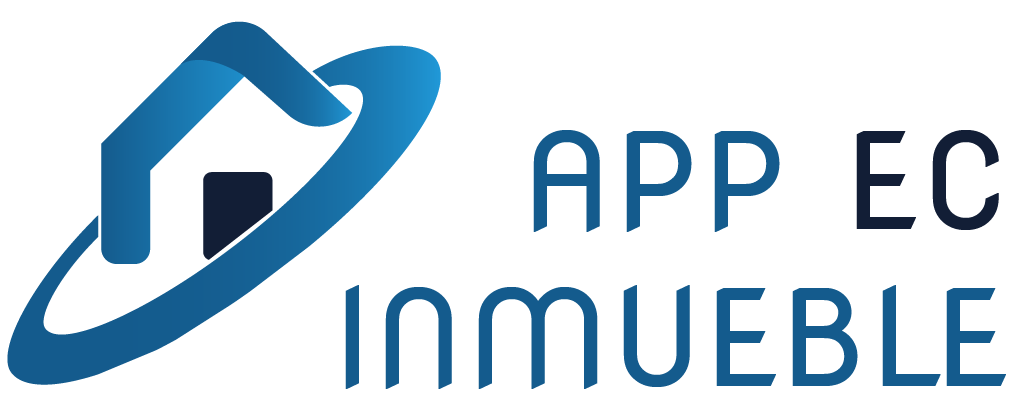
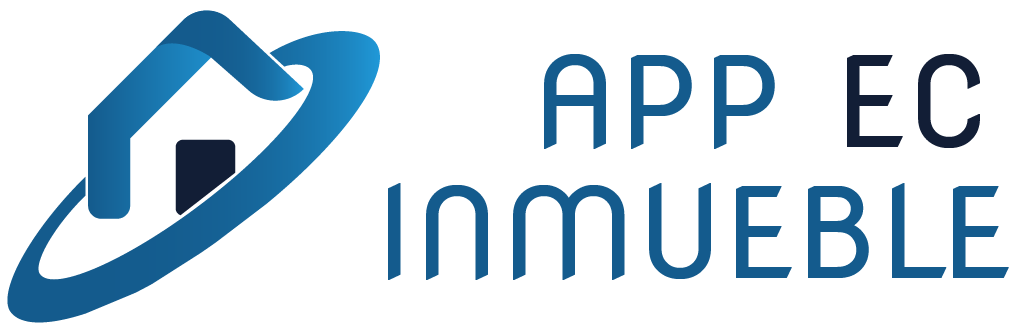
improve header toolbar css and routin page static

diff --git a/src/styles.scss b/src/styles.scss
@@ -2,58 +2,108 @@
 @import "@angular/material/prebuilt-themes/deeppurple-amber.css";
 
 $primary: #145b8d;
+
 $primary-ligh-1: #20d6d8;
 $primary-ligh-2: #2099d8;
+
 $primary-dark-1: #121e36;
 $primary-dark-2: #120907;
 
-$error: #c5084d;
+$text-primary: #a6b1be;
+$text-dark: #232e40;
 
-:root {
-  --color-1: #20d6d8;
-  --color-2: #2099d8;
-  --color-3: #145b8d;
-  --color-4: #121e36;
-  --color-5: #120907;
-  --color-6: #f5f5f9;
-  --font-size-1: 1rem;
-  --font-size-2: 1.2rem;
-  --font-size-3: 1.8rem;
-  --shadow-1: rgba(0, 0, 0, 0.35) 0px 8px 24px;
-  --shadow-2: rgba(100, 104, 111, 0.2) 0px 7px 29px 0px;
-  --border-radius-1: .25rem;
-  --border-radius-2: .5rem;
-  --font-family-1: 'Ubuntu', sans-serif;
-  --animation-1: 200ms;
-  --bs-body-color: #a6b1be;
-  --bs-body-bg: #f5f5f9;
-  /*
-  .color1 {color: #111e35;}
-  .color2 {color: #244a8a;}
-  .color3 {color: #04f287;}
-  .color4 {color: #5aff80;}
-  .color5 {color: #f4ff91;}
-  */
-}
+$background-white: #FFFFFF;
+$background-1: #fdfdfd;
+$background-2: #f5f5f9;
+$background-btn-default: #fafafa;
+$background-btn-hover-1: #f5f5f9;
+$background-btn-hover-2: #a6b1be;
+
+$error: #c5084d;
+$error-ligh: #f2ccda;
+
+$success: #07c39a;
+$success-ligh: #cdf9ef;
+
+$shadow-1: rgba(0, 0, 0, 0.35) 0px 8px 24px;
+$shadow-2: rgba(100, 104, 111, 0.2) 0px 7px 29px 0px;
+
+$separator-line: #f5f5f9;
+
+$frame-space-400: 400px;
+$frame-space-350: 350px;
+$frame-space-300: 300px;
+$frame-space-250: 250px;
+$frame-space-200: 200px;
+$frame-space-100: 100px;
+$frame-space-050: 50px;
+$frame-space-025: 25px;
+
+$transition-02s: 0.2s;
+$opacity-05: .5;
+$default-0: 0px;
+
+$space-25: 25px;
+$space-20: 20px;
+$space-15: 15px;
+$space-12: 12px;
+$space-10: 10px;
+$space-08: 8px;
+$space-05: 5px;
+
+$percentage-100: 100%;
+$percentage-075: 75%;
+$percentage-050: 50%;
+$percentage-030: 30%;
+$percentage-025: 25%;
+$percentage-010: 10%;
+$percentage-005: 5%;
+
+$font-size-22: 22px;
+$font-size-20: 20px;
+$font-size-18: 18px;
+$font-size-16: 16px;
+$font-size-14: 14px;
+$font-size-12: 12px;
+$font-size-10: 10px;
+$font-size-08: 8px;
+
+$font-family-ubuntu: 'Ubuntu', sans-serif;
+
+$animation-2s: 200ms;
+
+$color01: #0e325b;
+$color02: #ca7c14;
+$color03: #f5b017;
+$color04: #3090ac;
+$color05: #f2f2f2;
+$color06: #A6232E40;
+$color07: #66232E40;
+$color08: #c9c6cc;
+$color09: #232e40;
+$color10: #3072b8;
+$color12: #d1e8eb;
+$color13: #03DAC5;
+$color14: #F4F7F7;
+$color15: #fafafa;
 
 html,
 body {
-  margin: 0;
-  padding: 0;
-  background-color: var(--color-6);
-  font-family: var(--font-family-1);
-  font-size: var(--font-size-1);
-  color: var(--color-4);
+  margin: $default-0;
+  padding: default-0;
+  background-color: $background-2;
+  font-family: $font-family-ubuntu;
+
 }
 
 input,
 button {
   cursor: pointer;
-  font-family: var(--font-family-1);
+  font-family: $font-size-14;
 }
 
 button:disabled {
-  opacity: .5;
+  opacity: $opacity-05;
 }
 
 *,

diff --git a/src/app/modules/components/menu-list/menu-list.component.scss b/src/app/modules/components/menu-list/menu-list.component.scss
@@ -1,52 +1,52 @@
 @import '../../../../styles.scss';
 
 .nav-menu {
-  padding: 0;
-  margin: 0;
+  padding: $default-0;
+  margin: $default-0;
 
   &__img {
-    width: 100%;
-    padding: 0 35px;
+    width: $percentage-100;
+    padding: 0 $space-15;
 
     & .image {
-      width: 100%;
+      width: $percentage-100;
     }
   }
 
   &__separator {
     margin: 1rem 0;
-    border-bottom: solid 1px #f5f5f9;
+    border-bottom: solid 1px $separator-line;
   }
 
   &__list {
-    width: 100%;
-    padding: 0;
-    margin: 0;
+    width: $percentage-100;
+    padding: $default-0;
+    margin: $default-0;
 
     & li {
       list-style: none;
-      background-color: #fafafa;
-      color: #a6b1be;
-      border-radius: 8px;
+      background-color: $background-btn-default;
+      color: $text-primary;
+      border-radius: $space-08;
       text-decoration: none;
-      margin-bottom: 8px;
+      margin-bottom: $space-08;
     }
 
     & .item__sign-put {
-      background-color: #c5084d40;
-      color: #a6b1be;
+      background-color: $error-ligh;
+      color: $text-primary;
     }
     & .item__sign-put:hover, .item__sign-put:active {
-      background-color: #c5084d;
-      color: #f5f5f9;
+      background-color: $error;
+      color: $background-2;
     }
 
     & li:hover, li:active {
       cursor: pointer;
-      background-color: #f5f5f9;
+      background-color: $background-btn-hover-1;
       color: $primary;
-      font-size: 17px;
-      transition: 0.2s;
+      font-size: $font-size-18;
+      transition: $transition-02s;
     }
     &::-webkit-scrollbar{
       display: none;
@@ -59,11 +59,11 @@
   align-items: center;
   justify-content: left;
   align-content: center;
-  margin-left: 15px;
-  padding: 5px;
+  margin-left: $space-15;
+  padding: $space-05;
 }
 
 .navigation-list-label {
   display: inline-block;
-  padding-left: 8px;
+  padding-left: $space-08;
 }

diff --git a/src/app/modules/components/header/header.component.scss b/src/app/modules/components/header/header.component.scss
@@ -1,17 +1,49 @@
+@import '../../../../styles.scss';
+
+.toolbar-background {
+  background: $primary;
+  background: -webkit-linear-gradient(to right, $primary, $primary-dark-1);
+  background: linear-gradient(to right, $primary, $primary-dark-1);
+
+  & button {
+    color: $background-btn-default;
+  }
+  &__img {
+    width: $frame-space-200;
+    padding: 0 $space-15;
+
+    & .image {
+      width: $percentage-100;
+    }
+  }
+}
+
 .side-bar {
   list-style: none;
-  padding: 0;
-  margin: 0;
+  padding: $default-0;
+  margin: $default-0;
+  width: $percentage-050;
+
+  & li {
+    font-size: $font-size-20;
+    text-decoration: none;
+    color: $background-2;
+    width: $percentage-030;
+    border-radius: $space-08;
+    text-align: center;
+  }
+
+  & li:hover, li:active {
+    cursor: pointer;
+    font-size: $font-size-18;
+    color: $primary;
+    background-color: $background-btn-hover-1;
+    transition: $transition-02s;
+  }
 }
 
-.side-bar li {
-  text-decoration: none;
-  color: #f5f5f9;
+.list-label {
+  margin-left: $space-08;
 }
 
-.side-bar li:hover, .side-bar li:active {
-  font-size: 1.4rem;
-  cursor: pointer;
-  color: #a6b1be;
-  transition: 0.5s;
-}
+

diff --git a/src/app/modules/components/header/header.component.html b/src/app/modules/components/header/header.component.html
@@ -1,14 +1,16 @@
-<mat-toolbar color="primary">
+<mat-toolbar class="toolbar-background">
   <button mat-icon-button (click)="menuToggleDispatch()">
     <mat-icon>menu</mat-icon>
   </button>
-  <span>INMBUEBLE APP</span>
+  <div fxLayout class="toolbar-background__img">
+    <img class="image" src="../../../../assets/img/lg_inmueble_app_bn.png" alt="">
+  </div>
   <div fxFlex fxLayout fxLayoutAlign="flex-end" fxHide.xs>
     <ul fxLayout="row" fxLayoutGap="25px" class="side-bar">
       <li *ngFor="let item of mainMenu.defaultOptions">
           <div class="list-wrapper-item">
               <i [ngClass]="['uil',item.icon]"></i>
-              <span class="side-bar__list list-label">{{item.name}}</span>
+              <span class="list-label">{{item.name}}</span>
           </div>
       </li>
   </ul>

diff --git a/src/app/modules/components/header/header.component.ts b/src/app/modules/components/header/header.component.ts
@@ -25,15 +25,19 @@ export class HeaderComponent implements OnInit {
         router: ['/']
       },
       {
-        name: 'Registrar',
-        icon: 'uil uil-search',
-        router: ['/', 'history']
+        name: 'Register',
+        icon: 'uil uil-user-square',
+        router: ['/', 'register']
       },
       {
-        name: 'Login',
-        icon: 'uil uil-chart',
-        router: ['/', 'favorites'],
-        query: { hola: 'mundo' }
+        name: 'Product',
+        icon: 'uil uil-box',
+        router: ['/', 'product']
+      },
+      {
+        name: 'Contact',
+        icon: 'uil uil-envelopes',
+        router: ['/', 'contact']
       }
     ]
 

diff --git a/src/app/app.component.scss b/src/app/app.component.scss
@@ -1,9 +1,14 @@
+@import '../styles.scss';
+
 .mat-sidenav-container, .mat-sidenav-content, .mat-sidenav, .mat-nav-list {
-  height: 100%;
+  height: $percentage-100;
 }
 
 .mat-sidenav {
-  width: 250px;
+  width: $frame-space-250;
+  padding: $space-15;
+  margin: $default-0;
+  background-color: $background-1;
 }
 
 .mat-drawer-container {

diff --git a/src/app/modules/pages/static/static.module.ts b/src/app/modules/pages/static/static.module.ts
@@ -1,0 +1,14 @@
+import { NgModule } from '@angular/core';
+import { CommonModule } from '@angular/common';
+
+import { StaticRoutingModule } from './static-routing.module';
+
+
+@NgModule({
+  declarations: [],
+  imports: [
+    CommonModule,
+    StaticRoutingModule
+  ]
+})
+export class StaticModule { }

diff --git a/src/app/modules/pages/static/static-routing.module.ts b/src/app/modules/pages/static/static-routing.module.ts
@@ -1,0 +1,10 @@
+import { NgModule } from '@angular/core';
+import { RouterModule, Routes } from '@angular/router';
+
+const routes: Routes = [];
+
+@NgModule({
+  imports: [RouterModule.forChild(routes)],
+  exports: [RouterModule]
+})
+export class StaticRoutingModule { }
